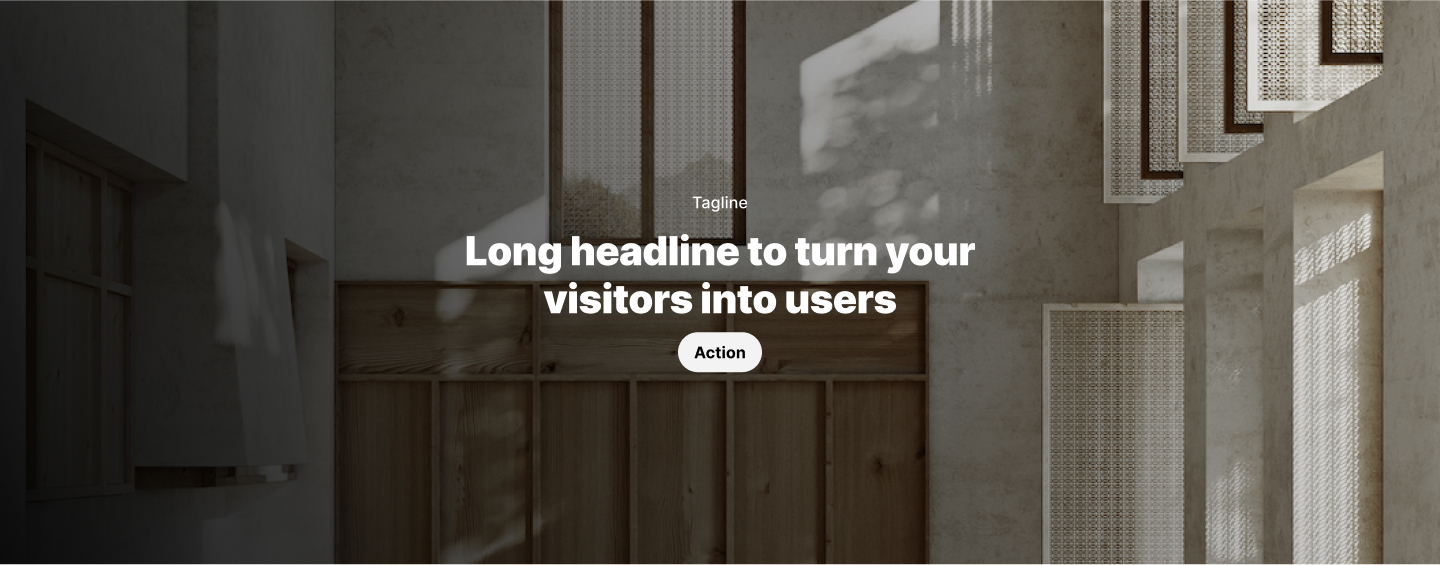
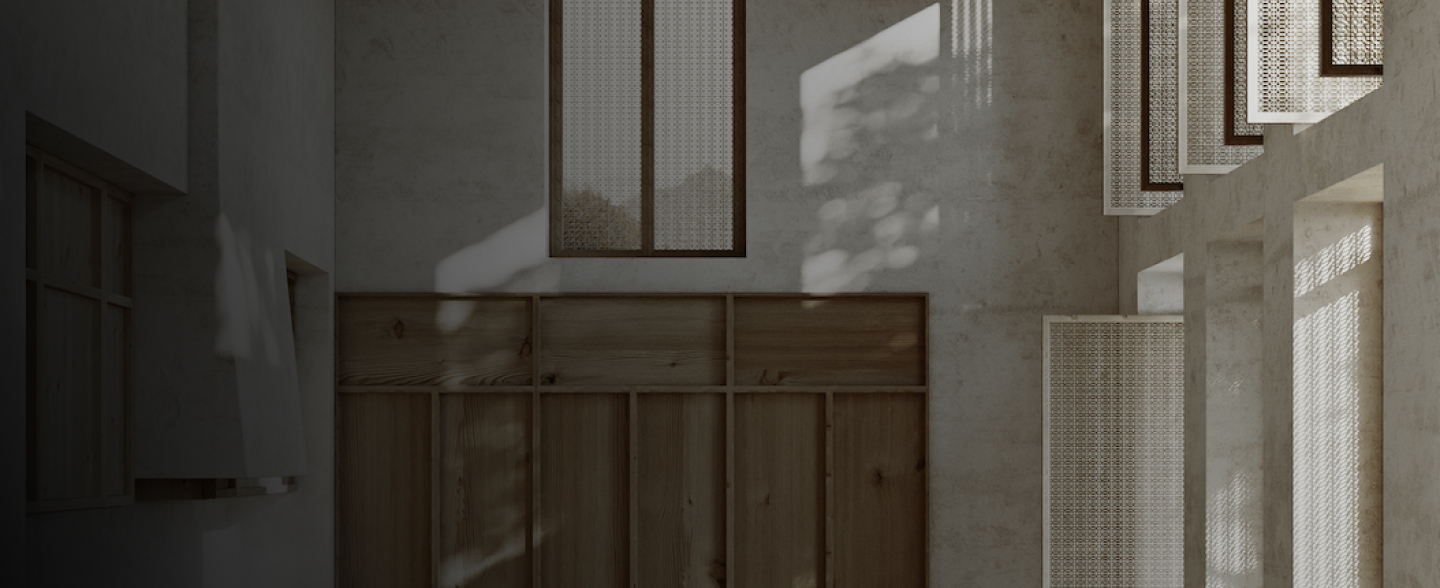
section 4 done, no responsives

diff --git a/css/style.css b/css/style.css
@@ -130,3 +130,37 @@
 .list-item {
     margin-bottom: 8px;
 }
+
+/* section 4 styles */
+.section4 {
+}
+.section4-div {
+    background-image: url(../images/cta.jpg);
+    width: 100%;
+    height: 564px;
+    background-repeat: no-repeat;
+    background-size: cover;
+    color: #FFFFFF;
+    display: flex;
+    flex-direction: column;
+    justify-content: center;
+    align-items: center;
+    text-align: center;
+}
+.section4-title {
+    font-size: 40px;
+    line-height: 48px;
+    font-weight: bold;
+    width: 540px;
+    margin-top: 10px;
+    margin-bottom: 10px;
+}
+
+.white-action {
+    width: 84px;
+    height: 40px;
+    background-color: #FFFFFF;
+    color: #000000;
+    border-radius: 24px;
+    padding: 8px 16px;
+}

diff --git a/index.html b/index.html
@@ -82,7 +82,13 @@
             </div>
         </div>
     </section>
-    <section></section>
+    <section class="section4">
+        <div class="section4-div">
+                <h4>Tagline</h4>
+                <h2 class="section4-title">Long headline to turn your visitors into users</h2>
+                <div class="white-action">Action</div>
+        </div>
+    </section>
     <footer></footer>
 </body>
 </html>
